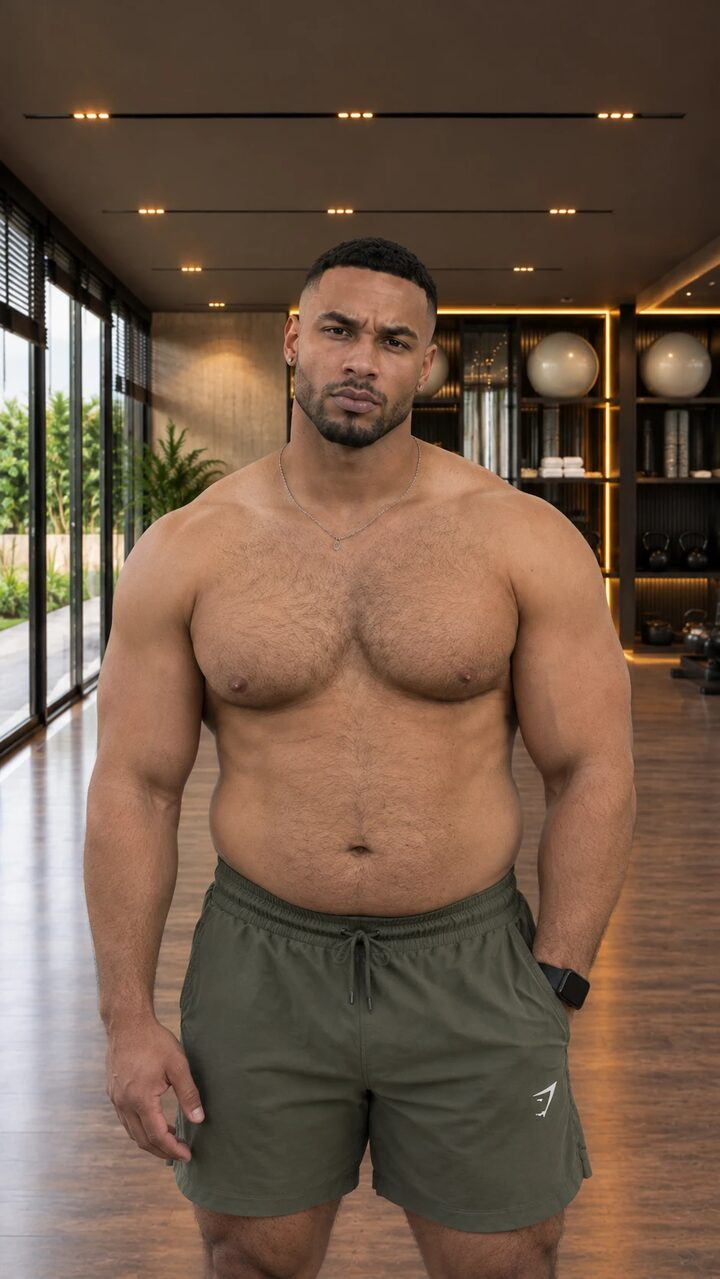
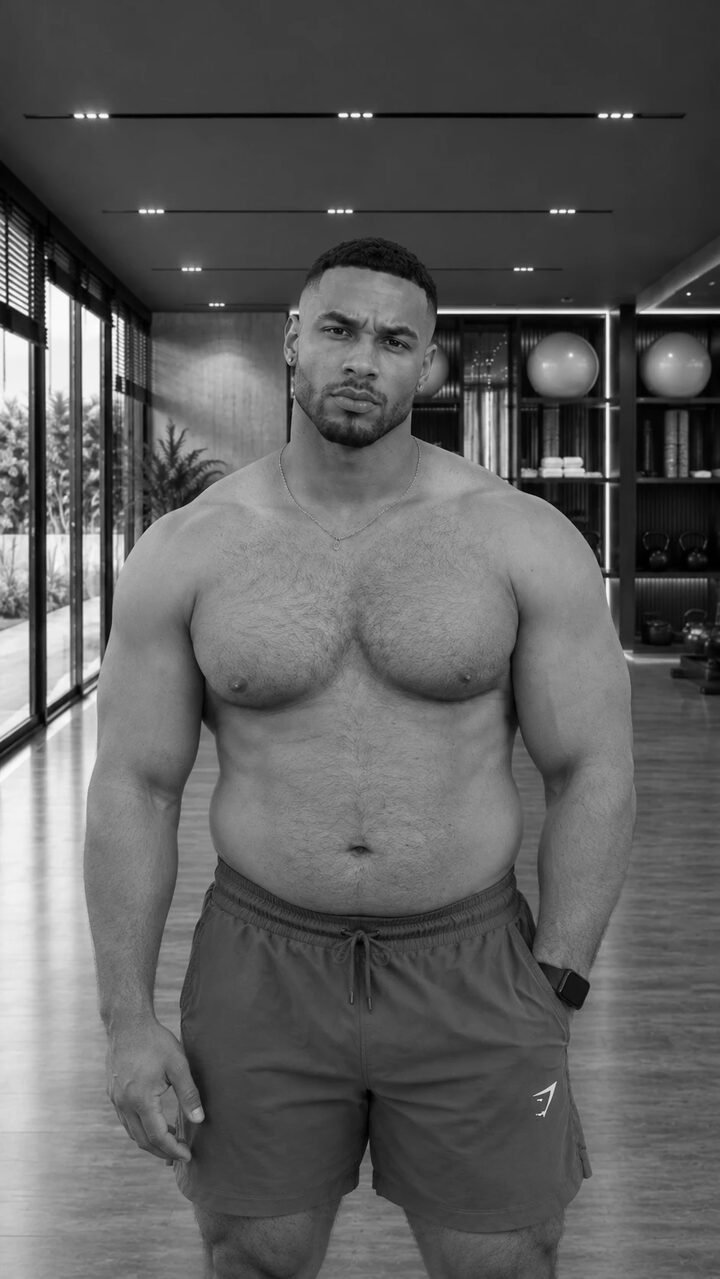
feat: share the before/after photo card between paywall and Körper

diff --git a/src/features/body/components/body-photo-card.tsx b/src/features/body/components/body-photo-card.tsx
@@ -6,7 +6,7 @@ import type { Pose } from '@/features/progress-check/lib/poses';
 import { cn } from '@/shared/lib/cn';
 import { colors } from '@/shared/lib/theme';
 import { CheckBadge } from '@/shared/ui/check-item';
-import { Gradient } from '@/shared/ui/gradient';
+import { ComparePhotoCard } from '@/shared/ui/compare-photo-card';
 import { Icon } from '@/shared/ui/icon';
 import { MuscleMap } from '@/shared/ui/muscle-map';
 import { PressableScale } from '@/shared/ui/pressable-scale';
@@ -72,51 +72,44 @@ export function BodyPhotoCard({
         accessibilityLabel={`${label}, ${score}`}
         accessibilityState={{ selected }}
         onPress={onPress}
-        className={cn(
-          'h-62.5 w-full overflow-hidden rounded-[18px] bg-surface',
-          selected ? 'border-2 border-accent' : 'border border-white/8',
-          faded && 'opacity-45',
-        )}
+        className={cn('h-62.5 w-full', faded && 'opacity-45')}
       >
-        <CheckPhoto
-          checkId={checkId}
-          pose={pose}
-          storagePath={storagePath}
-          fallback={
-            <View className="absolute inset-0 p-4 opacity-60">
-              <MuscleMap view={pose === 'back' ? 'back' : 'front'} />
-            </View>
+        <ComparePhotoCard
+          photo={
+            <CheckPhoto
+              checkId={checkId}
+              pose={pose}
+              storagePath={storagePath}
+              fallback={
+                <View className="absolute inset-0 p-4 opacity-60">
+                  <MuscleMap view={pose === 'back' ? 'back' : 'front'} />
+                </View>
+              }
+            />
           }
-        />
-        {muted ? <View pointerEvents="none" className="absolute inset-0 bg-black/25" /> : null}
-        <Gradient from="bottom" size={80} color="black" opacity={0.8} />
-        <View className="absolute right-3 bottom-3 left-3 flex-row items-end justify-between">
-          <View className="gap-0.5">
-            <Text variant="caption" tone="secondary" className="text-xs">
-              {label}
-            </Text>
-            <Text
-              variant="headline"
-              tone={after ? 'accent' : 'default'}
-              className="text-[28px] leading-7"
+          label={label}
+          score={score}
+          after={after}
+          muted={muted}
+          trailing={done ? <CheckBadge size={22} glyph={11} /> : null}
+          className={cn(
+            'flex-1 rounded-[18px]',
+            selected ? 'border-2 border-accent' : 'border border-white/8',
+          )}
+        >
+          {badge ? (
+            <View
+              className={cn(
+                'absolute top-3 left-3 size-6.5 items-center justify-center rounded-full',
+                badge === 'A' ? 'bg-fg' : 'bg-accent',
+              )}
             >
-              {score}
-            </Text>
-          </View>
-          {done ? <CheckBadge size={22} glyph={11} /> : null}
-        </View>
-        {badge ? (
-          <View
-            className={cn(
-              'absolute top-3 left-3 size-6.5 items-center justify-center rounded-full',
-              badge === 'A' ? 'bg-fg' : 'bg-accent',
-            )}
-          >
-            <Text variant="caption" tone="onAccent" className="font-inter-bold text-xs">
-              {badge}
-            </Text>
-          </View>
-        ) : null}
+              <Text variant="caption" tone="onAccent" className="font-inter-bold text-xs">
+                {badge}
+              </Text>
+            </View>
+          ) : null}
+        </ComparePhotoCard>
       </PressableScale>
       {/* Beside the card, not in it: a button can't sit inside another one (web). */}
       {onEdit ? (
@@ -165,20 +158,5 @@ export function NextCheckCard({ title, note, onPress }: NextCheckCardProps) {
         </Text>
       </PressableScale>
     </CardSlot>
-  );
-}
-
-/**
- * The accent arrow from the before to the after card, centred over their row (which must be as
- * wide as its parent: the centring is a percentage of it).
- */
-export function CompareArrow() {
-  return (
-    <View
-      pointerEvents="none"
-      className="absolute top-1/2 left-1/2 -mt-5 -ml-5 size-10 items-center justify-center rounded-full bg-accent"
-    >
-      <Icon name="arrow-right" size={16} color={colors.onAccent} />
-    </View>
   );
 }

diff --git a/src/features/paywall/components/before-after.tsx b/src/features/paywall/components/before-after.tsx
@@ -2,61 +2,51 @@ import { Image } from 'expo-image';
 import { useTranslation } from 'react-i18next';
 import { StyleSheet, View } from 'react-native';
 
+import { useUnits } from '@/shared/data/profile';
 import { cn } from '@/shared/lib/cn';
-import { formatDate } from '@/shared/lib/format';
-import { colors } from '@/shared/lib/theme';
-import { Icon } from '@/shared/ui/icon';
-import { Text } from '@/shared/ui/text';
+import { formatDate, formatWeight } from '@/shared/lib/format';
+import { CompareArrow, ComparePhotoCard } from '@/shared/ui/compare-photo-card';
 
+// The before photo is pre-graded to greyscale: iOS can't desaturate an image at runtime.
 const BEFORE = require('@/assets/images/paywall/before.jpg');
 const AFTER = require('@/assets/images/paywall/after.jpg');
 const BEFORE_DATE = new Date(2026, 1, 3);
 const AFTER_DATE = new Date(2026, 8, 28);
 
-interface PhotoProps {
+interface SideProps {
   source: number;
-  label: string;
+  tag: string;
   date: Date;
+  score: number;
+  weightKg: number;
   after?: boolean;
 }
 
-function Photo({ source, label, date, after }: PhotoProps) {
+/** One sample progress check, styled like the before/after cards of the Körper tab. */
+function Side({ source, tag, date, score, weightKg, after }: SideProps) {
+  const units = useUnits();
   return (
-    <View
+    <ComparePhotoCard
+      photo={
+        <Image
+          source={source}
+          contentFit="cover"
+          contentPosition={{ left: '50%', top: '30%' }}
+          accessibilityLabel={tag}
+          style={StyleSheet.absoluteFill}
+        />
+      }
+      tag={tag}
+      label={formatDate(date, { day: 'numeric', month: 'short', year: 'numeric' })}
+      score={score}
+      weight={formatWeight(weightKg, units)}
+      after={after}
+      muted={!after}
       className={cn(
-        'flex-1 overflow-hidden rounded-[22px] border-[1.5px] bg-surface',
+        'flex-1 rounded-[22px] border-[1.5px]',
         after ? 'border-accent' : 'border-outline',
       )}
-    >
-      <Image
-        source={source}
-        contentFit="cover"
-        contentPosition={{ left: '50%', top: '30%' }}
-        accessibilityLabel={label}
-        style={StyleSheet.absoluteFill}
-      />
-      <View
-        className={cn(
-          'absolute top-2.5 left-2.5 rounded-full px-2.5 py-1.25',
-          after ? 'bg-accent' : 'bg-pill',
-        )}
-      >
-        <Text
-          variant="caption"
-          tone={after ? 'onAccent' : 'default'}
-          className="text-[11px] leading-3.25 tracking-[1.1px] uppercase"
-        >
-          {label}
-        </Text>
-      </View>
-      <Text
-        variant="caption"
-        className="absolute bottom-2.5 left-2.5 text-xs"
-        style={{ textShadowColor: 'rgba(0,0,0,0.6)', textShadowRadius: 6 }}
-      >
-        {formatDate(date, { day: 'numeric', month: 'short', year: 'numeric' })}
-      </Text>
-    </View>
+    />
   );
 }
 
@@ -65,16 +55,22 @@ export function BeforeAfter() {
   const { t } = useTranslation('paywall');
   return (
     <View className="h-54.5 flex-row gap-3">
-      <Photo source={BEFORE} label={t('paywall.before')} date={BEFORE_DATE} />
-      <Photo source={AFTER} label={t('paywall.after')} date={AFTER_DATE} after />
-      <View pointerEvents="none" className="absolute inset-0 items-center justify-center">
-        <View
-          className="size-10 items-center justify-center rounded-full bg-accent"
-          style={{ boxShadow: '0 8px 20px rgba(0,0,0,0.35)' }}
-        >
-          <Icon name="arrow-right" size={15} color={colors.onAccent} />
-        </View>
-      </View>
+      <Side
+        source={BEFORE}
+        tag={t('paywall.before')}
+        date={BEFORE_DATE}
+        score={62}
+        weightKg={84.2}
+      />
+      <Side
+        source={AFTER}
+        tag={t('paywall.after')}
+        date={AFTER_DATE}
+        score={78}
+        weightKg={79.6}
+        after
+      />
+      <CompareArrow />
     </View>
   );
 }

diff --git a/src/shared/ui/compare-photo-card.tsx b/src/shared/ui/compare-photo-card.tsx
@@ -1,0 +1,109 @@
+import type { ReactNode } from 'react';
+import { View } from 'react-native';
+
+import { cn } from '@/shared/lib/cn';
+import { colors } from '@/shared/lib/theme';
+import { Gradient } from '@/shared/ui/gradient';
+import { Icon } from '@/shared/ui/icon';
+import { Text } from '@/shared/ui/text';
+
+export interface ComparePhotoCardProps {
+  /** Fills the card, e.g. an image with an absolute-fill style. */
+  photo: ReactNode;
+  /** Above the score: the date or the check's name. */
+  label: string;
+  score: number;
+  /** Beside the score, e.g. "84,2 kg". */
+  weight?: string;
+  /** The "after" side: accent score and tag. */
+  after?: boolean;
+  /** Toned down like a desaturated "before" shot. */
+  muted?: boolean;
+  /** Pill in the top-left corner, e.g. "Vorher". */
+  tag?: string;
+  /** At the right end of the score row, e.g. a check badge. */
+  trailing?: ReactNode;
+  /** Size, corners and border. */
+  className?: string;
+  /** Drawn over the photo, e.g. a corner badge. */
+  children?: ReactNode;
+}
+
+/**
+ * One side of a before/after comparison: the photo, darkened towards the bottom where its label
+ * sits over the score.
+ */
+export function ComparePhotoCard({
+  photo,
+  label,
+  score,
+  weight,
+  after,
+  muted,
+  tag,
+  trailing,
+  className,
+  children,
+}: ComparePhotoCardProps) {
+  return (
+    <View className={cn('overflow-hidden bg-surface', className)}>
+      {photo}
+      {muted ? <View pointerEvents="none" className="absolute inset-0 bg-black/25" /> : null}
+      <Gradient from="bottom" size={80} color="black" opacity={0.8} />
+      <View className="absolute right-3 bottom-3 left-3 flex-row items-end justify-between">
+        <View className="gap-0.5">
+          <Text variant="caption" tone="secondary" className="text-xs">
+            {label}
+          </Text>
+          <View className="flex-row items-baseline gap-2">
+            <Text
+              variant="headline"
+              tone={after ? 'accent' : 'default'}
+              className="text-[28px] leading-7"
+            >
+              {score}
+            </Text>
+            {weight ? (
+              <Text variant="label" className="text-sm">
+                {weight}
+              </Text>
+            ) : null}
+          </View>
+        </View>
+        {trailing}
+      </View>
+      {tag ? (
+        <View
+          className={cn(
+            'absolute top-3 left-3 rounded-full px-2.5 py-1.25',
+            after ? 'bg-accent' : 'bg-pill',
+          )}
+        >
+          <Text
+            variant="caption"
+            tone={after ? 'onAccent' : 'default'}
+            className="text-[11px] leading-3.25 tracking-[1.1px] uppercase"
+          >
+            {tag}
+          </Text>
+        </View>
+      ) : null}
+      {children}
+    </View>
+  );
+}
+
+/**
+ * The accent arrow from the before to the after card, centred over their row (which must be as
+ * wide as its parent: the centring is a percentage of it).
+ */
+export function CompareArrow() {
+  return (
+    <View
+      pointerEvents="none"
+      className="absolute top-1/2 left-1/2 -mt-5 -ml-5 size-10 items-center justify-center rounded-full bg-accent"
+    >
+      <Icon name="arrow-right" size={16} color={colors.onAccent} />
+    </View>
+  );
+}

diff --git a/src/features/body/screens/body-screen.tsx b/src/features/body/screens/body-screen.tsx
@@ -23,11 +23,12 @@ import { formatLongDate, formatShortDate } from '@/shared/lib/format';
 import { colors } from '@/shared/lib/theme';
 import { Button } from '@/shared/ui/button';
 import { CameraAccessSheet, useCameraAccess } from '@/shared/ui/camera/camera-access-sheet';
+import { CompareArrow } from '@/shared/ui/compare-photo-card';
 import { Icon } from '@/shared/ui/icon';
 import { ScaleBar } from '@/shared/ui/scale-bar';
 import { Text } from '@/shared/ui/text';
 
-import { BodyPhotoCard, CompareArrow, NextCheckCard } from '../components/body-photo-card';
+import { BodyPhotoCard, NextCheckCard } from '../components/body-photo-card';
 import { CheckHistoryRow } from '../components/check-history-row';
 import { comparedPair } from '../lib/comparison';
 import { useCompareStore } from '../stores/compare-store';

diff --git a/src/features/body/screens/compare-screen.tsx b/src/features/body/screens/compare-screen.tsx
@@ -17,11 +17,12 @@ import { cn } from '@/shared/lib/cn';
 import { DAY_MS } from '@/shared/lib/date';
 import { formatShortDate } from '@/shared/lib/format';
 import { Button } from '@/shared/ui/button';
+import { CompareArrow } from '@/shared/ui/compare-photo-card';
 import { PressableScale } from '@/shared/ui/pressable-scale';
 import { ScreenHeader } from '@/shared/ui/screen-header';
 import { Text } from '@/shared/ui/text';
 
-import { BodyPhotoCard, CompareArrow } from '../components/body-photo-card';
+import { BodyPhotoCard } from '../components/body-photo-card';
 import { comparedPair, inOrder } from '../lib/comparison';
 import { useCompareStore } from '../stores/compare-store';
 
